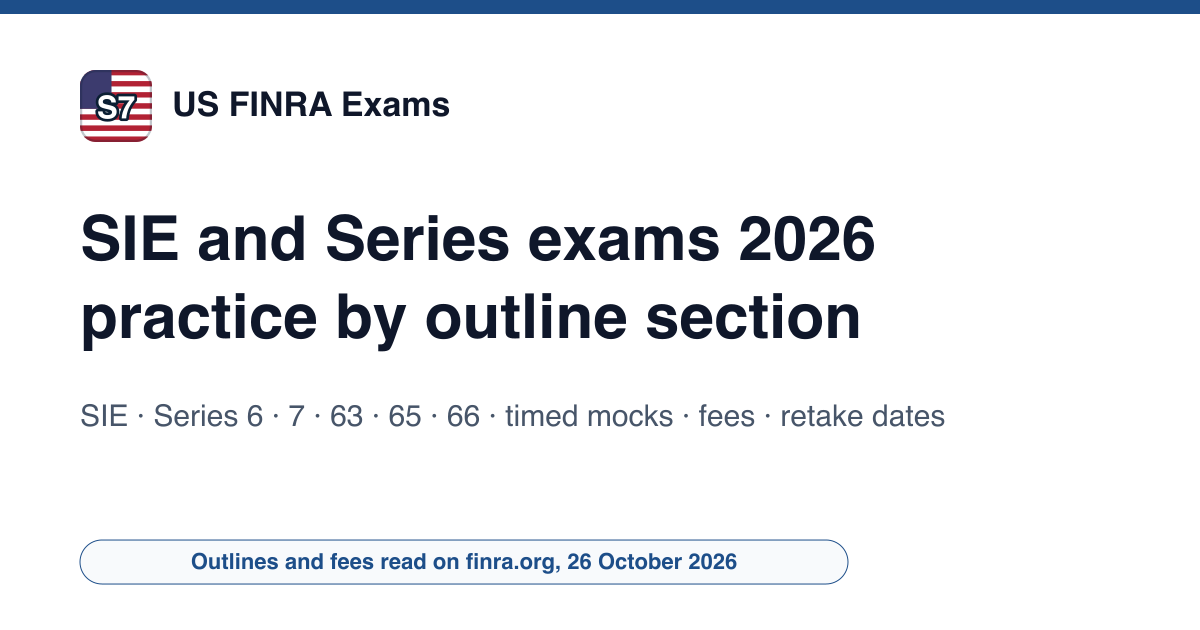
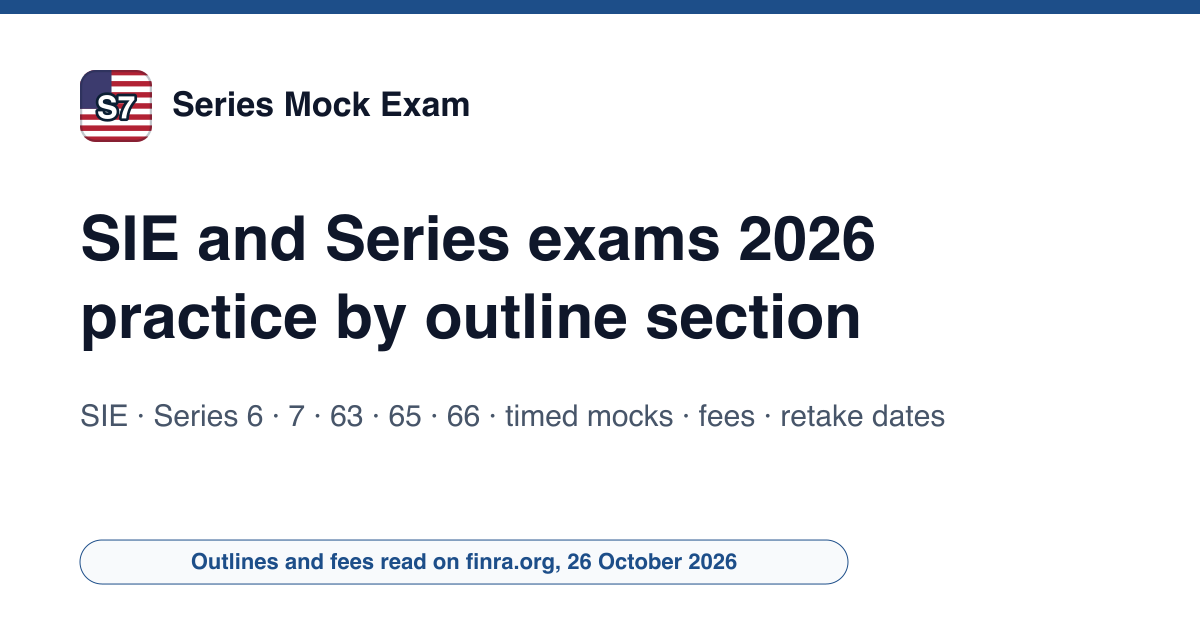
Renommage sur le domaine seriesmockexam.com

Changed region(s): [[0.1233, 0.1206, 0.4008, 0.2111]]

diff --git a/src/i18n/ui.ts b/src/i18n/ui.ts
@@ -6,7 +6,7 @@ const en = {
   asOf: 'Exam formats, fees and FINRA rules', lastUpdated: 'read on finra.org and nasaa.org, last checked on',
   footerValidated: 'Every format, fee and rule links to the FINRA or NASAA page it was read on',
   footerBrowser: 'Quizzes and calculators run in your browser · nothing you type is sent · progress stays in this browser · free, no account, no email',
-  footerDisclaimer: 'US FINRA Exams is an independent site published by Radif Partners. It is not affiliated with, endorsed by or connected to FINRA, NASAA, Prometric or any state securities regulator, and it is not a training provider. Its practice questions are written from the public content outlines and are not questions from the real exams. Enrollment, scheduling and results happen only through FINRA and your sponsoring firm. Fees, dates and rules are given for guidance only and do not constitute legal or career advice: confirm them with FINRA or your firm before you enroll.',
+  footerDisclaimer: 'Series Mock Exam is an independent site published by Radif Partners. It is not affiliated with, endorsed by or connected to FINRA, NASAA, Prometric or any state securities regulator, and it is not a training provider. Its practice questions are written from the public content outlines and are not questions from the real exams. Enrollment, scheduling and results happen only through FINRA and your sponsoring firm. Fees, dates and rules are given for guidance only and do not constitute legal or career advice: confirm them with FINRA or your firm before you enroll.',
   footerPopular: 'Practice',
   notFound: 'There is no page at this address. Free SIE and Series practice starts on the home page.',
   readMore: 'Read more', back: 'Home',

diff --git a/src/data/site-config.ts b/src/data/site-config.ts
@@ -1,6 +1,6 @@
 /** Configuration centrale du site (générée par new-site.py). */
-export const SITE_URL = "https://us-finra-exams.example";
-export const SITE_NAMES: Record<string, string> = {"en": "US FINRA Exams"};
+export const SITE_URL = "https://seriesmockexam.com";
+export const SITE_NAMES: Record<string, string> = {"en": "Series Mock Exam"};
 // Partie du nom affichée en couleur dans l'en-tête (RECETTE §10.3), « » pour aucune.
 export const BRAND_ACCENT = "";
 export const LANG_TAGS: Record<string, string> = {"en": "en-US"};
@@ -18,7 +18,7 @@ export const AUTHOR_DESC: Record<string, string> = {"en": "Radif Partners reads 
  *  themes reellement traites par le site, pas une liste de mots-cles : un sujet
  *  declare ici sans page qui le couvre est une declaration fausse. */
 export const KNOWS_ABOUT: Record<string, string[]> = {"en": ["Securities Industry Essentials (SIE) exam content outline", "Series 7 General Securities Representative exam", "Series 6 Investment Company and Variable Contracts Products exam", "NASAA Series 63, 65 and 66 exams", "FINRA Rule 1210 registration and retake waiting periods", "FINRA Rule 1240 continuing education and maintaining qualifications", "Securities exam math: bond yields, options, margin and mutual fund pricing"]};
-export const CONTACT_EMAIL = "contact@us-finra-exams.example";
+export const CONTACT_EMAIL = "contact@seriesmockexam.com";
 export const THEME_COLOR = '#1D4E89';
 export const LOGO_SYMBOL = 'S7';
 export const BING_VERIFY_CODE = '';
